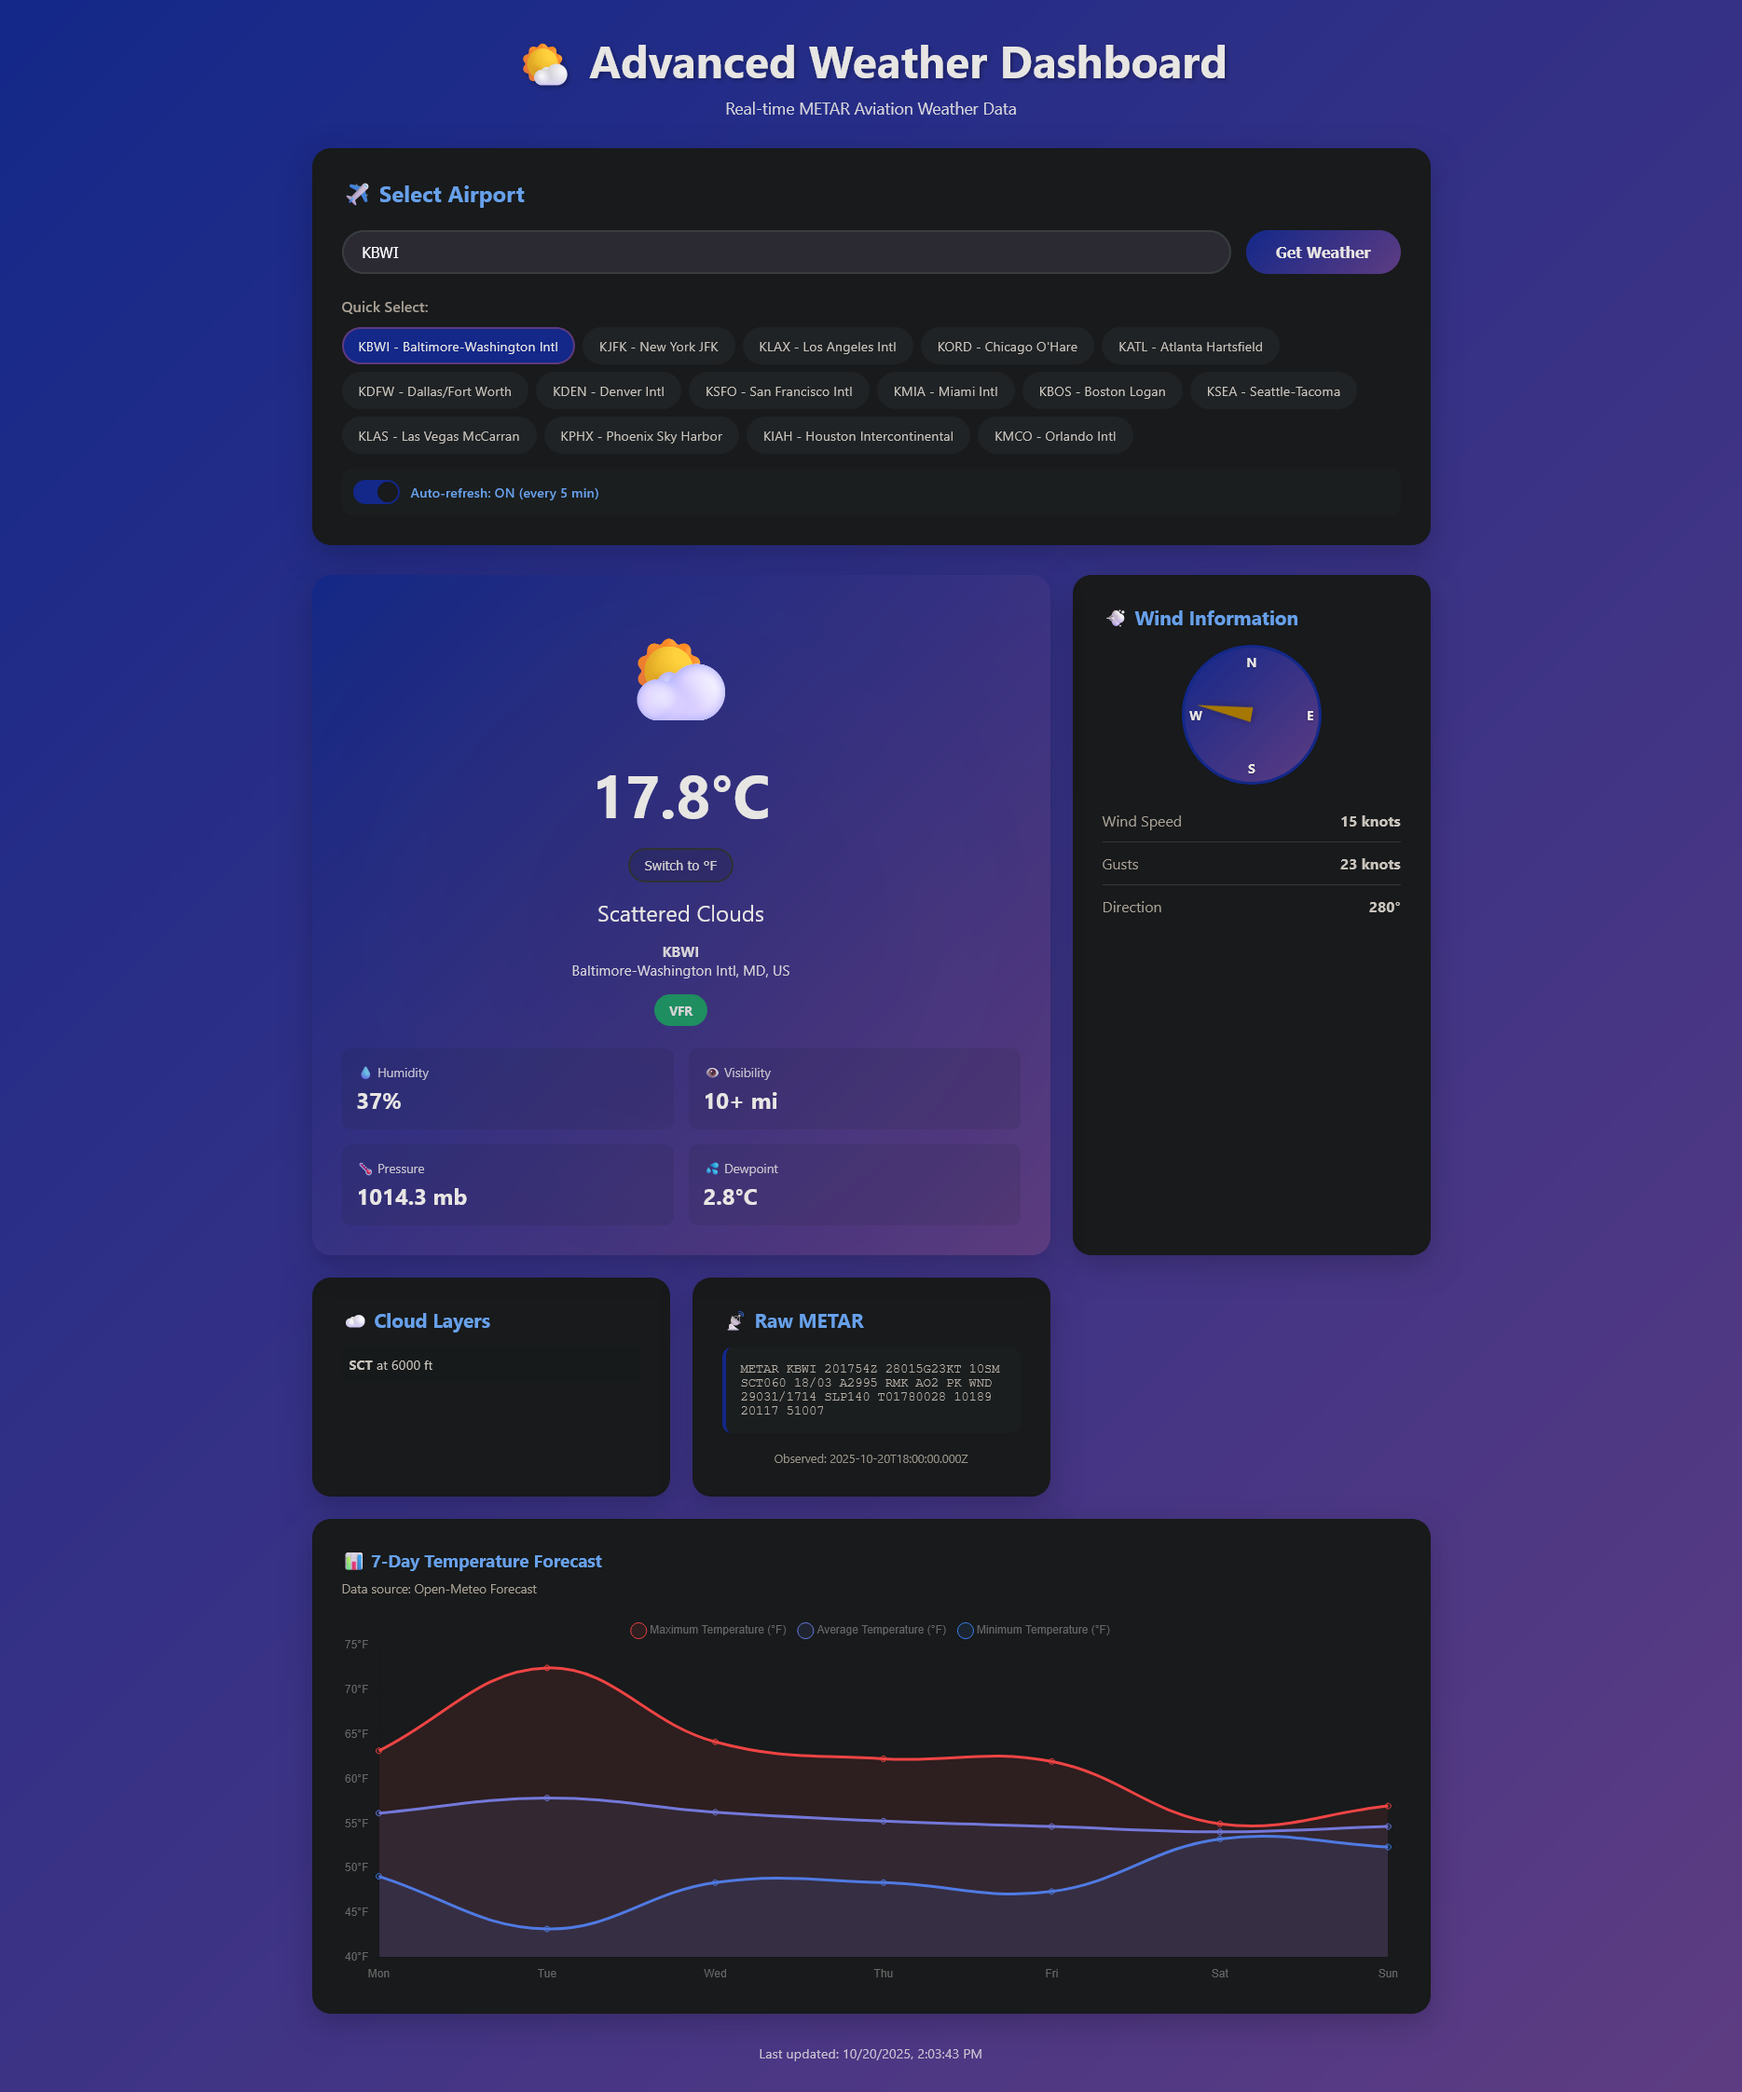
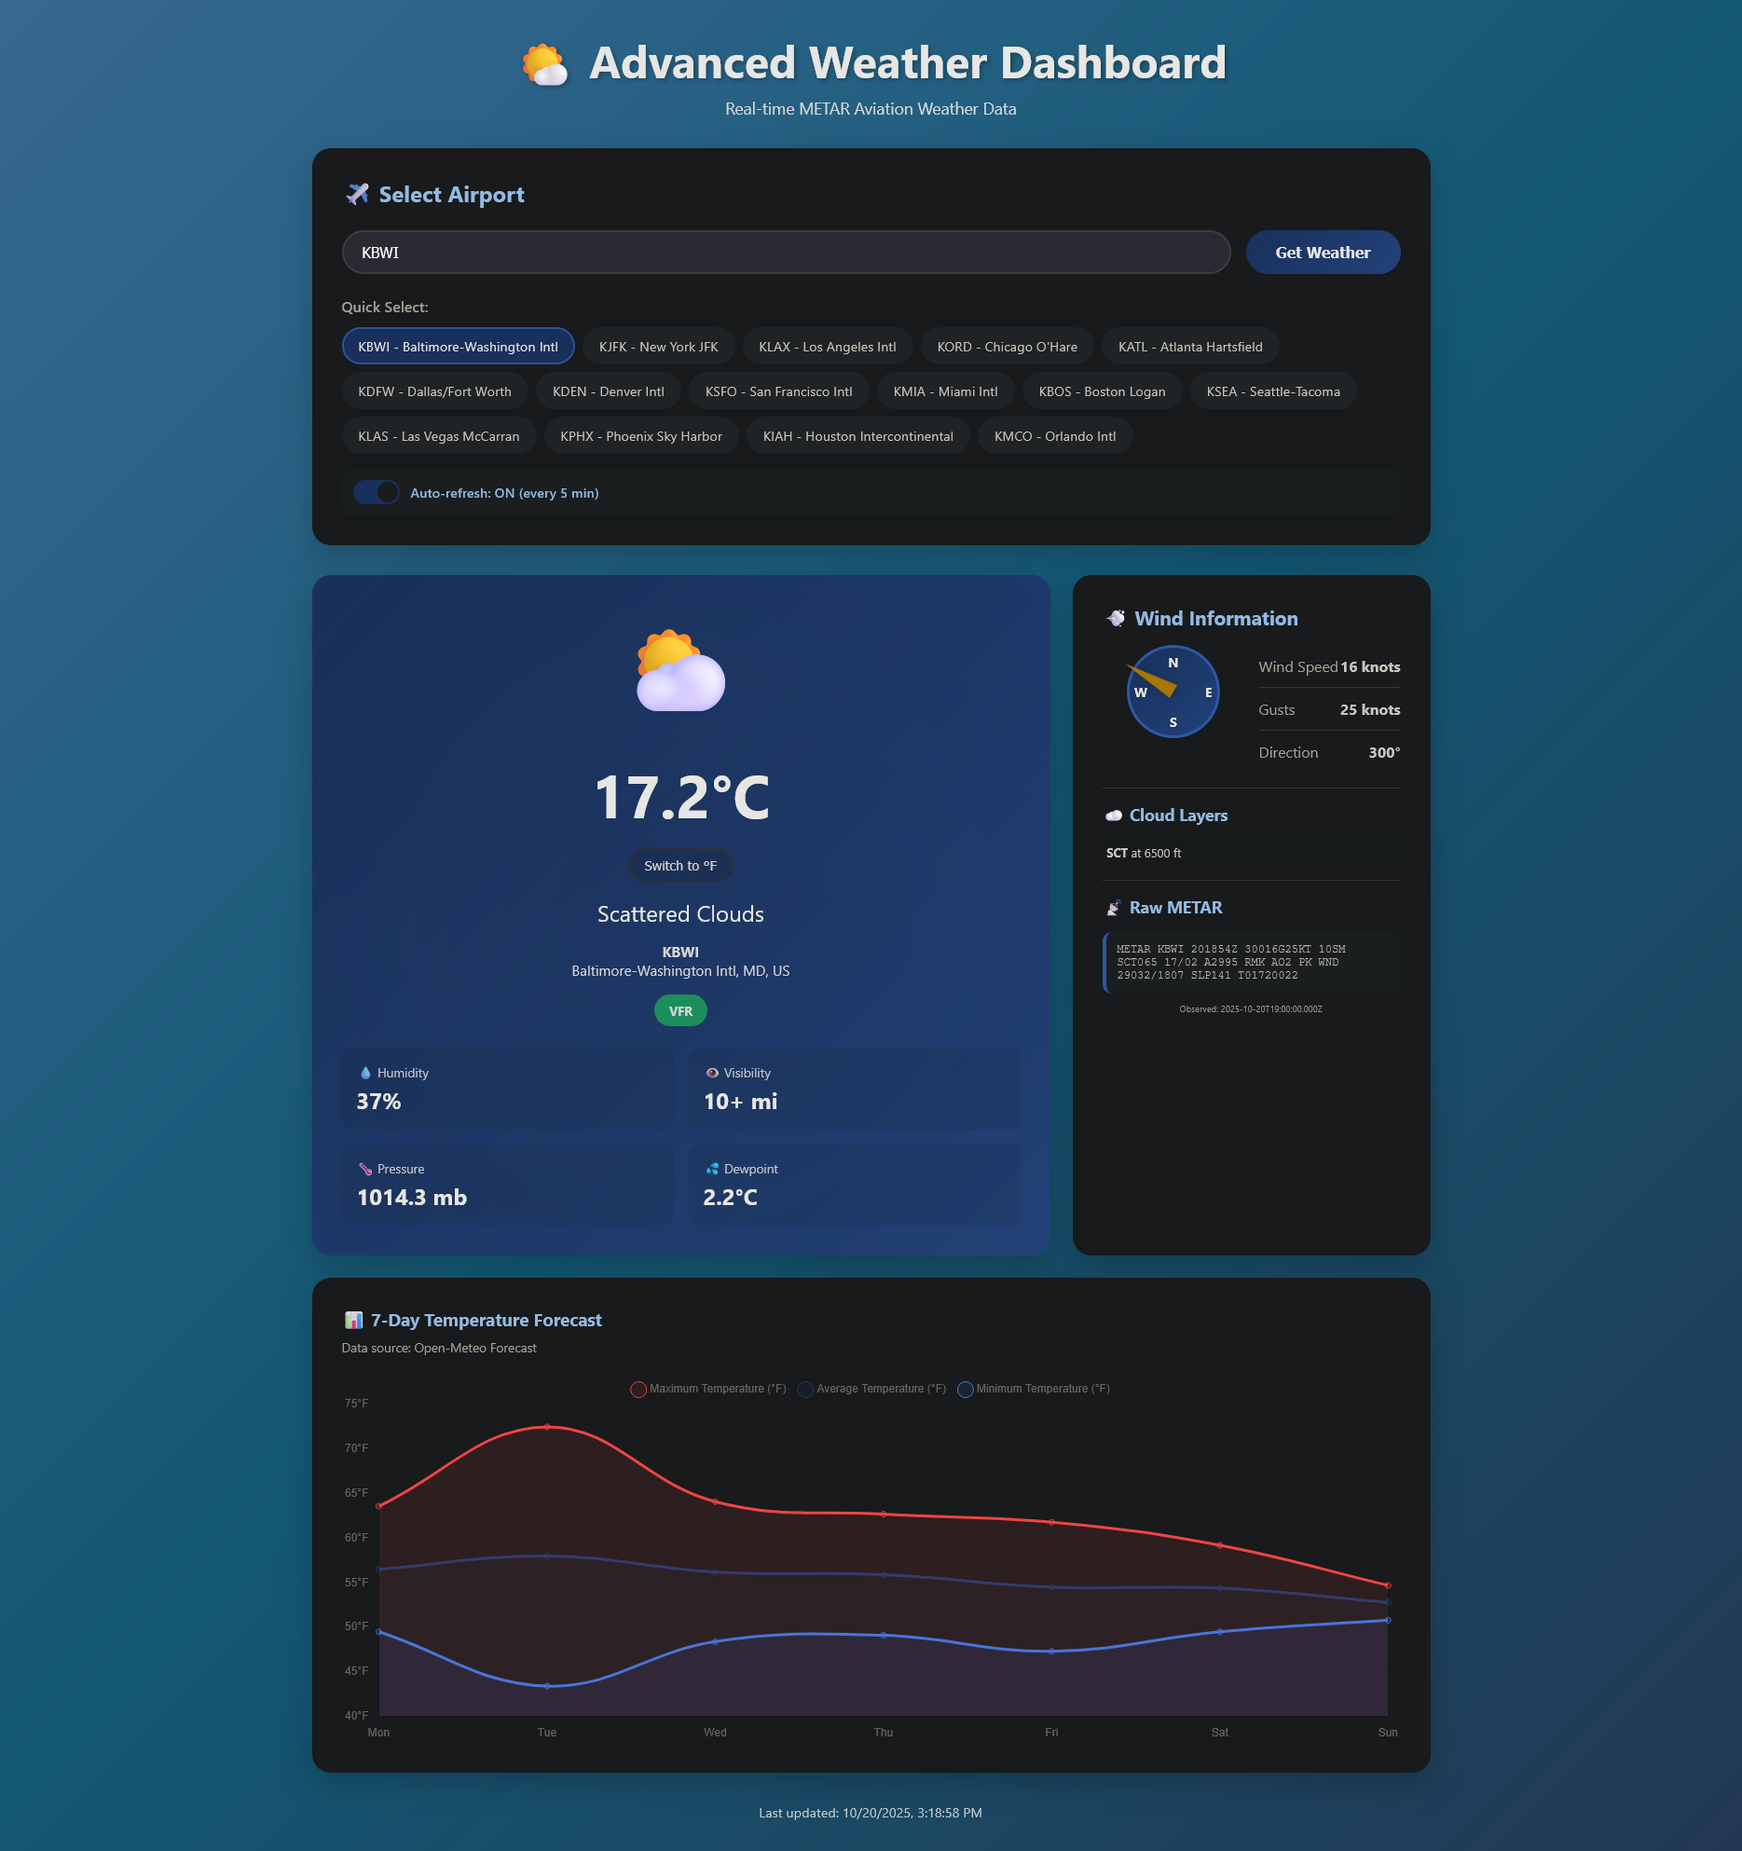
Update: Dynamic weather backgrounds and UI improvements
- Added dynamic weather backgrounds that change based on conditions:
  * Clear sky (blue gradient)
  * Few clouds (light blue)
  * Scattered clouds (steel blue)
  * Broken clouds (gray-blue)
  * Overcast (dark gray)
  * Rain (dark stormy)
  * Thunderstorm (dark purple with animated lightning)

- Enhanced weather detection from METAR data:
  * Storm detection (TS, TSRA, TSSN, TSGR, VCTS, SQ, FC, +FC)
  * Precipitation detection (RA, SN, PL, GR, GS, DZ)
  * Rain detection with SHRA support
  * Snow detection with specific icon

- Improved JavaScript functionality:
  * Fixed template variable rendering issues
  * Clean temperature conversion between C/F
  * Fixed searchStation and selectAirport functions
  * Resolved syntax errors from Jinja2 conflicts

- Updated README with comprehensive documentation:
  * Complete feature breakdown table
  * Weather background explanations
  * Usage examples and customization guides
  * Troubleshooting section
  * Professional formatting

- Code cleanup:
  * Removed author references
  * Clean, professional codebase
  * Fixed template syntax issues

diff --git a/README.md b/README.md
@@ -206,7 +206,7 @@ Feel free to fork, modify, and share! Contributions are welcome.
 
 ## 📸 Screenshots
 
-![Weather Dashboard]![alt text](image.png)
+![Weather Dashboard]!![alt text](image.png)
 
 ---
 
